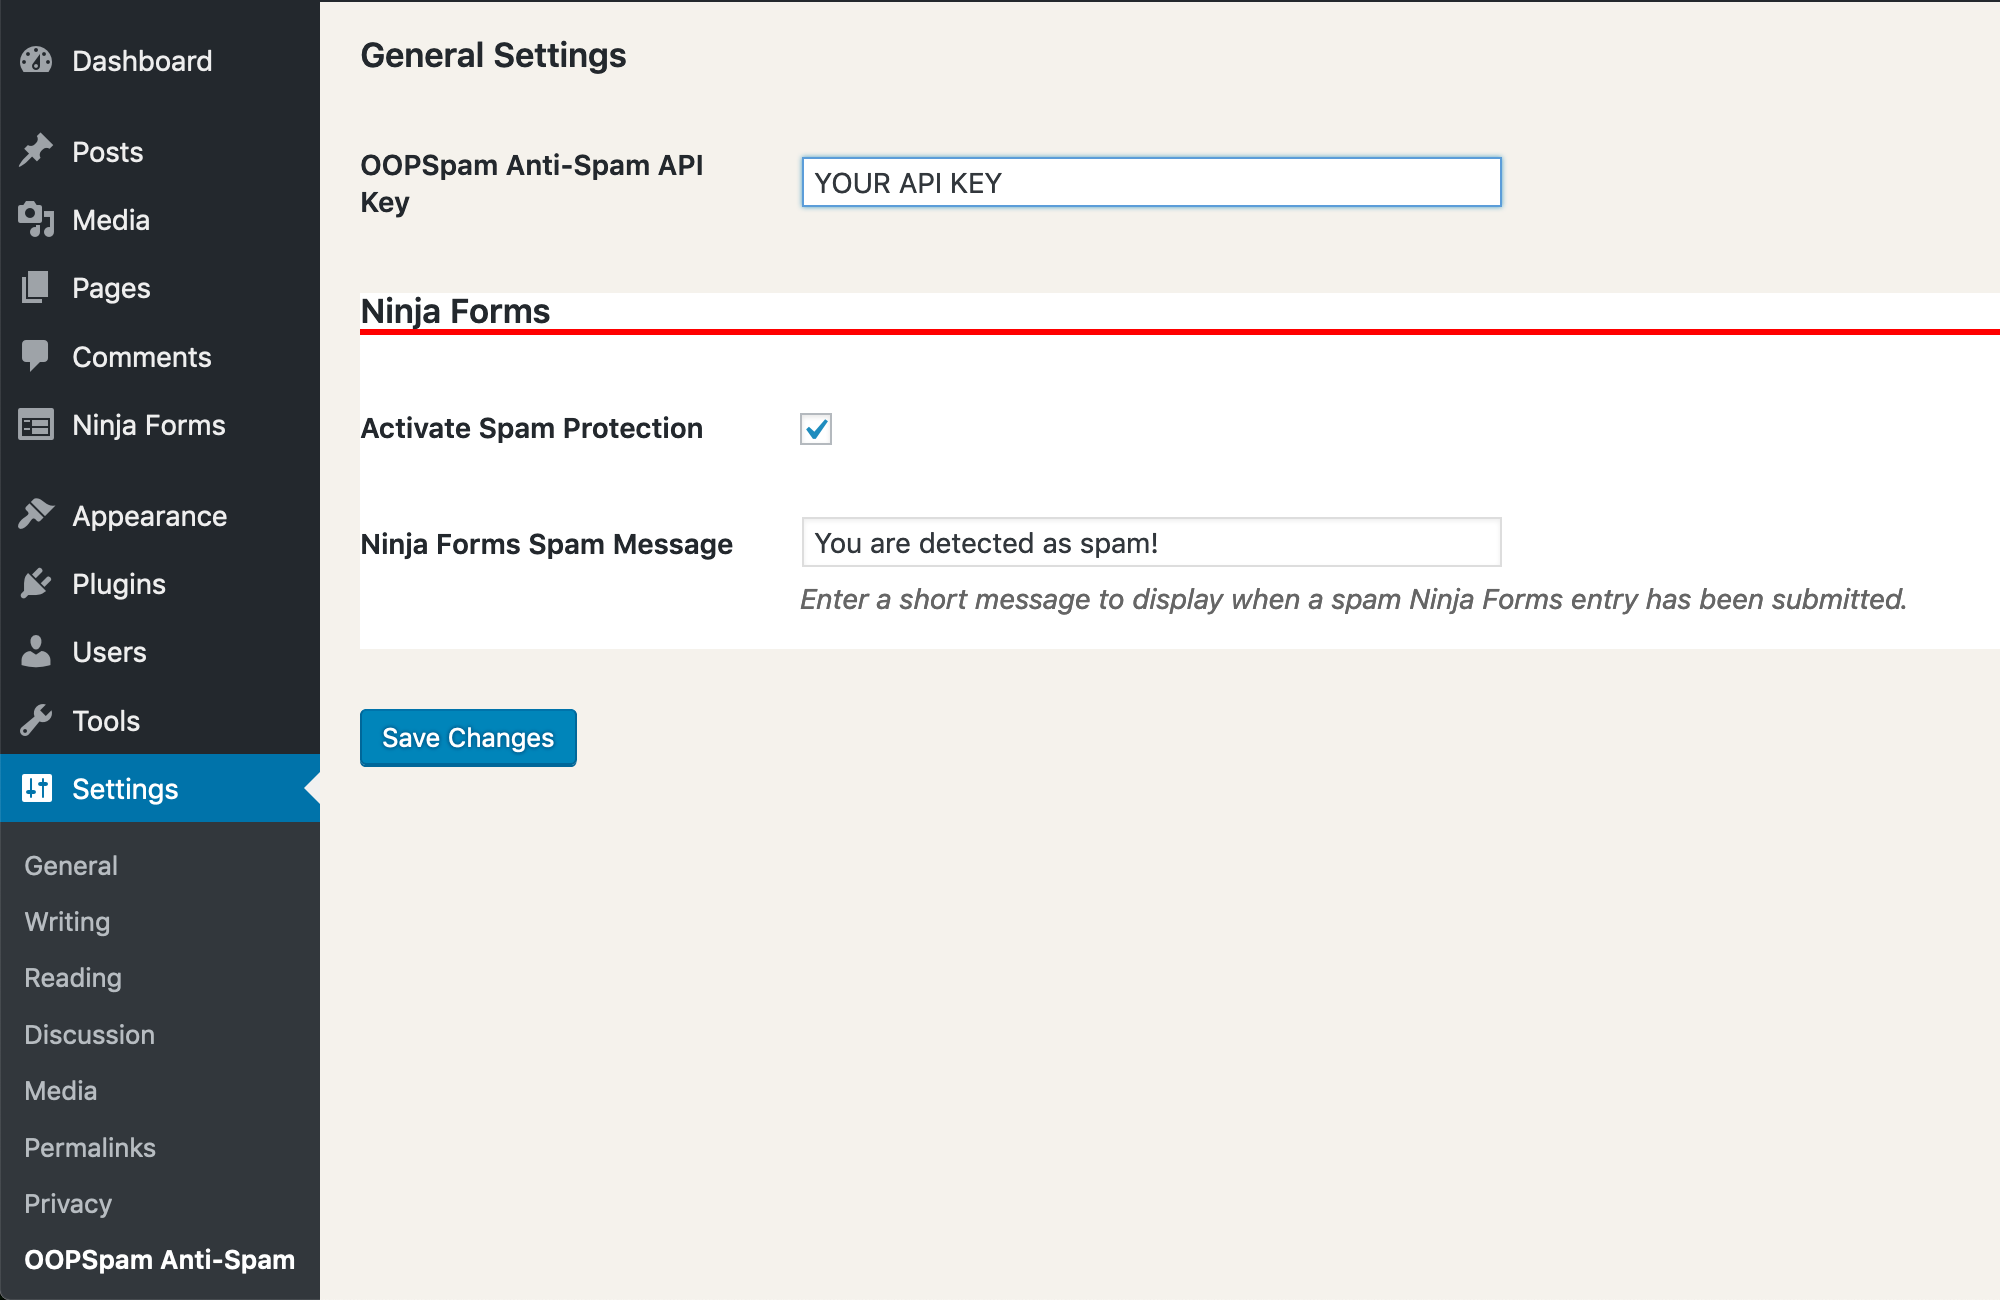
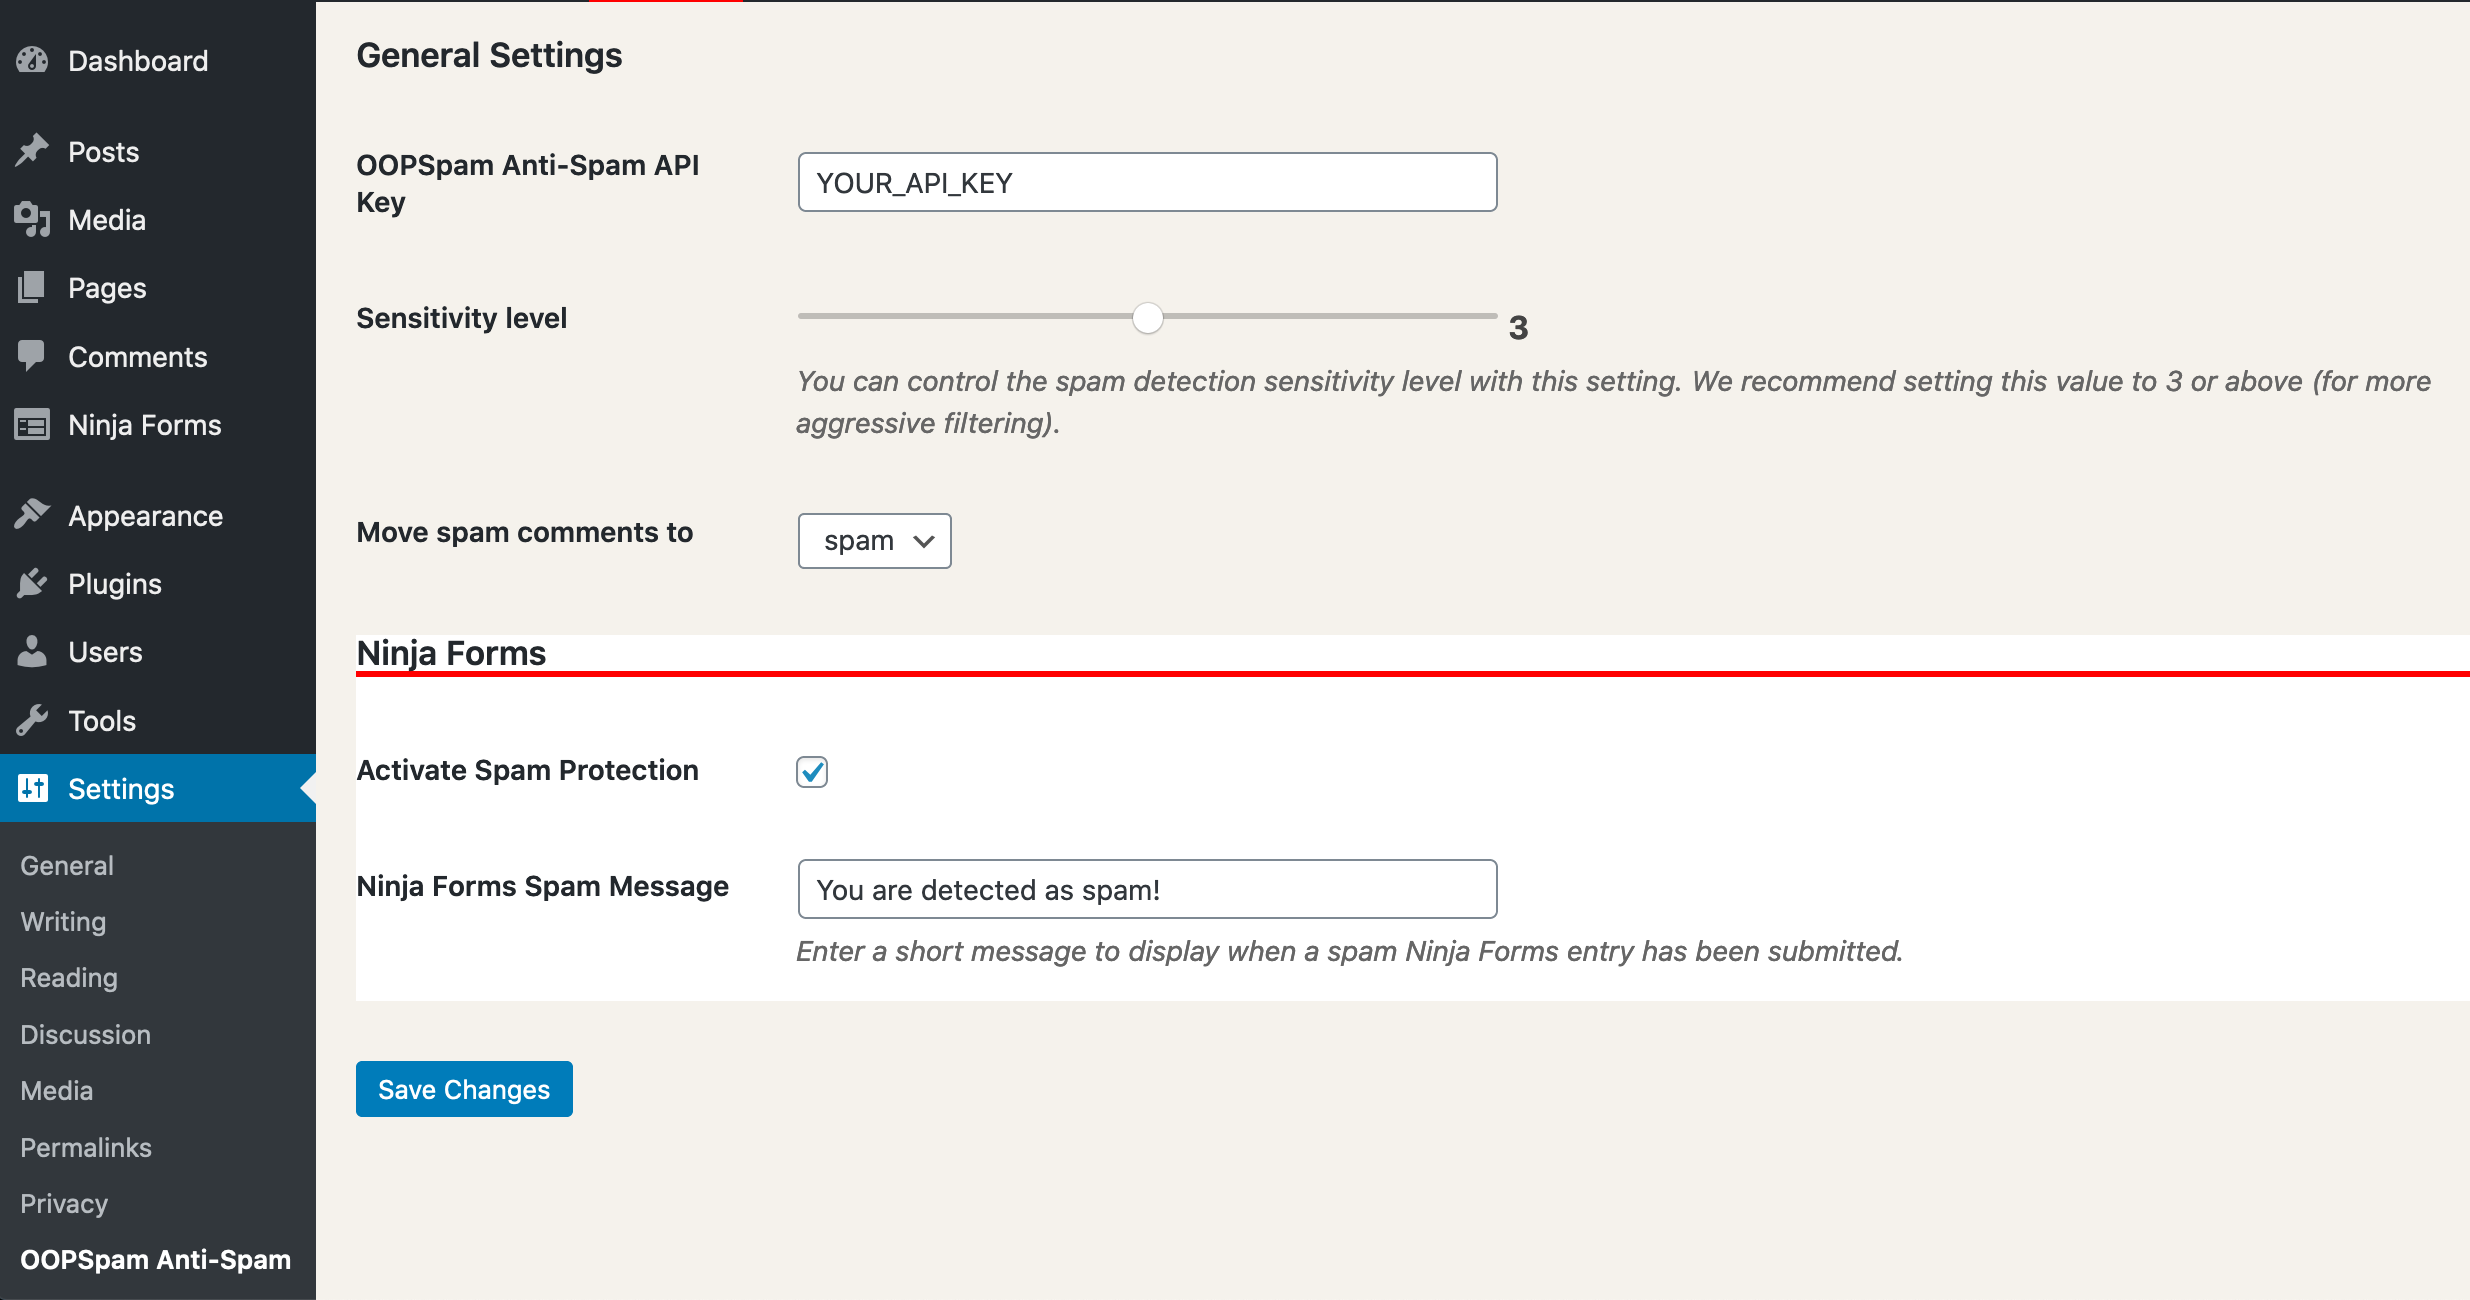
update nj forms blog post

diff --git a/_posts/2019-09-24-spam-protection-for-ninja-forms.md b/_posts/2019-09-24-spam-protection-for-ninja-forms.md
@@ -13,7 +13,13 @@ image: ../blog/assets/nj-oopspam-wordpress-plugin.jpg
 Recently, we announced the [OOPSpam Anti-Spam WordPress plugin](https://wordpress.org/plugins/oopspam-anti-spam/) which uses OOPSpam Anti-Spam API to filter spam on your comment. Very soon we realized that many people also concern about spam through contact forms. In fact, most of the requests to OOPSpam Anti-Spam API are coming from contact form submissions. 
 
 A few days ago we published a new update to our WordPress plugin. This update brings [Ninja Forms](https://ninjaforms.com/) support. If you are familiar with WordPress contact form solution then you hear about Ninja Forms. Ninja Forms is a powerful plugin that supports form drag&drop form building and many add-ons for any custom needs. It has a free and premium version. The free version is pretty flexible and allows you to get started quickly. 
-Although, Ninja Forms has already built-in support for spam protection. Those are Honeypot and Captcha methods. I wrote shortly about how these techniques are not reliable anymore on [How to add a powerful spam filter to your contact form](https://www.oopspam.com/blog/how-to-add-spamfilter-to-a-contact-form) article. When it comes to a paid plugin, well, there is a well-known Akismet. We have [a dedicated page](https://www.oopspam.com/akismet-alternative.html) on why we think we can do a better job than Akismet.
+Although, Ninja Forms has already built-in support for spam protection. Those are Honeypot and Captcha methods. I wrote shortly about how these techniques are not reliable anymore on [How to add a powerful spam filter to your contact form](https://www.oopspam.com/blog/how-to-add-spamfilter-to-a-contact-form) article. When it comes to a paid plugin, well, there is a well-known Akismet. We have [a dedicated page](https://www.oopspam.com/akismet-alternative.html) on why we think we can do a better job than Akismet without overflowing your database with gigabytes of data and still bringing higher accuracy. 
+
+OOPSpam Anti-Spam WordPress plugin:
+ - Filters your comments
+ - Filters Ninja Forms submissions
+ - Adjust the sensitivity level. Take control of how aggressive you want your spam-filter to be.
+ - Moves spam to Trash or Spam folder
 
 Back to the plugin, with this update, all your Ninja Forms submission will go through the OOPSpam Anti-Spam API. 
 Here are a few steps to activate spam protection for Ninja Forms:
